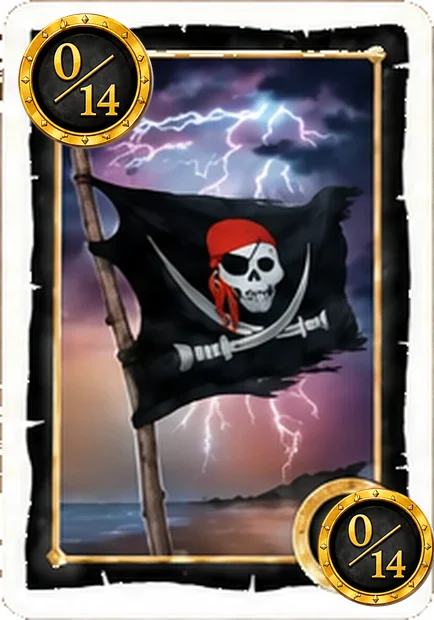
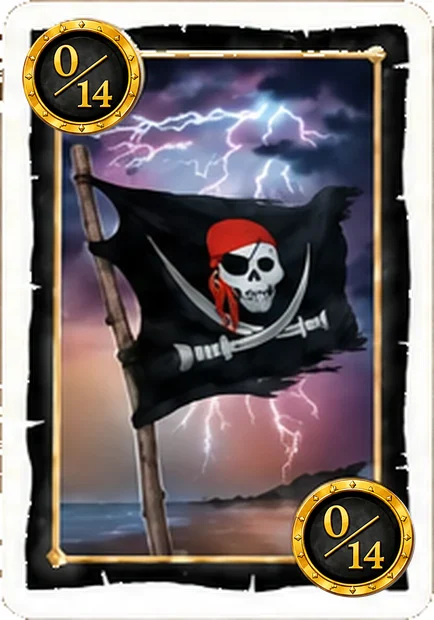
Skull King : recentrer les pastilles des cartes 0/14
Les boîtes des médaillons relevées dans le composeur étaient fausses, et
l'ancien médaillon d'or ressortait à côté de la pastille : 34 px d'écart au
coin bas-droit de la Carte, 28 sur le Trésor, 23 sur le Pavillon, et le
Perroquet décalé aux deux coins.

Les huit boîtes sont relevées à nouveau à la grille. La pastille épouse
désormais la boîte du médaillon au lieu d'être posée en rond sur son plus
grand côté : les médaillons sont peints en perspective, et celui du haut du
Perroquet (121 x 86) faisait déborder un rond de neuf pixels par le haut de
la carte.

Changed region(s): [[0.659, 0.7661, 1.0, 0.9806], [0.03, 0.0, 0.3594, 0.2452]]

diff --git a/briefs/composer-cartes-0-14.py b/briefs/composer-cartes-0-14.py
@@ -19,14 +19,21 @@ différent. Le 5 n'a aucun effet.
 
 Les médaillons sont RELEVÉS sur chaque carte, pas supposés : elles sont
 peintes une par une, et leurs médaillons ne tombent ni au même endroit ni à la
-même taille d'une famille à l'autre — 85 px de large sur le Perroquet, 128 sur
-le Pavillon, soit la moitié en plus.
+même taille ni dans la même forme d'une famille à l'autre — 121 x 86 px au coin
+haut du Perroquet, 125 x 121 sur la Carte, presque un rond.
 
 Ils sont relevés à la main, à la grille. Un repérage automatique a été essayé
 et jeté : le médaillon est un ANNEAU d'or autour d'un chiffre sombre, et une
 fois le liseré du cadre effacé par érosion, l'anneau se brise en arcs. Le plus
 gros arc n'est pas le médaillon — la pastille se posait décalée et trop
 petite, laissant le 5 dépasser sur trois cartes sur quatre.
+
+La pastille épouse la BOÎTE du médaillon, elle n'est pas posée en rond sur son
+plus grand côté. Les médaillons sont peints en perspective, donc elliptiques, et
+un rond assez large pour couvrir le grand axe déborde du petit : au coin haut du
+Perroquet il sortait de neuf pixels par le haut de la carte et se retrouvait
+coupé net. Une pastille étirée à la boîte suit la perspective du dessin, comme
+les médaillons peints qu'elle recouvre.
 
     python3 briefs/composer-cartes-0-14.py
 """
@@ -55,10 +62,10 @@ MARGE = 1.06        # la pastille déborde un peu du médaillon : rien ne doit d
 # Les deux médaillons de chaque carte modèle, en pixels de l'image (434 x 620),
 # relevés à la grille. Coin haut-gauche puis coin bas-droit.
 MEDAILLONS = {
-    'tresor-5':    [(18, 14, 132, 122), (322, 490, 434, 600)],
-    'perroquet-5': [(20, 22, 105, 97), (317, 502, 411, 587)],
-    'carte-5':     [(22, 20, 142, 130), (318, 492, 430, 600)],
-    'pavillon-5':  [(22, 22, 150, 140), (320, 494, 432, 600)],
+    'tresor-5':    [(21, 15, 136, 125), (290, 480, 410, 592)],
+    'perroquet-5': [(16, 12, 137, 98),  (301, 500, 413, 588)],
+    'carte-5':     [(20, 19, 145, 140), (281, 478, 411, 595)],
+    'pavillon-5':  [(25, 22, 139, 132), (294, 482, 412, 594)],
 }
 PAGE = np.array([255.0, 255.0, 255.0])
 
@@ -120,12 +127,13 @@ def main():
         brut.unlink()
 
         for x0, y0, x1, y1 in MEDAILLONS[f'{prefixe}-{MODELE}']:
-            cote = int(round(max(x1 - x0, y1 - y0) * MARGE))
+            larg = int(round((x1 - x0) * MARGE))
+            haut = int(round((y1 - y0) * MARGE))
             cx, cy = (x0 + x1) // 2, (y0 + y1) // 2
-            p = pastille.resize((cote, cote), Image.LANCZOS)
+            p = pastille.resize((larg, haut), Image.LANCZOS)
             # `paste` et pas `alpha_composite` : le médaillon du bas touche le
             # bord de la carte sur trois familles, la pastille déborde donc.
-            carte.paste(p, (cx - cote // 2, cy - cote // 2), p)
+            carte.paste(p, (cx - larg // 2, cy - haut // 2), p)
 
         dest = CARTES / f'{prefixe}-014.webp'
         tmp = dest.with_suffix('.tmp.png')

diff --git a/briefs/habillage-taverne.md b/briefs/habillage-taverne.md
@@ -572,3 +572,27 @@ beaucoup plus pour désigner le voisin. Les poignées, elles, montent : la
 flèche dépasse donc moins qu'avant (0,113 du demi-côté au lieu de 0,235),
 mais les médaillons se posent à 236 px pour une pointe à 207 — ils restent
 au large, rien à régler.
+
+### Correction — 28/08/2026 ✅ les pastilles 0/14 recentrées
+
+Les quatre cartes 0/14 sont fabriquées, pas peintes : `briefs/composer-cartes-0-14.py`
+recouvre les deux médaillons du 5 de chaque famille par la pastille de sa
+couleur. Les boîtes des médaillons, relevées à la grille, étaient fausses —
+d'où un ancien médaillon d'or qui ressortait à côté de la pastille :
+
+| carte | coin | écart du centre relevé |
+|---|---|---|
+| Carte (violet) | bas-droit | 34 px vers la droite, 10 vers le bas |
+| Trésor (jaune) | bas-droit | 28 px vers la droite, 9 vers le bas |
+| Pavillon (noir) | bas-droit | 23 px vers la droite, 9 vers le bas |
+| Perroquet (vert) | haut-gauche | 14 px vers la gauche, et 36 px trop étroite |
+| Perroquet (vert) | bas-droit | 7 px vers la droite |
+
+Les quatre boîtes du bas étaient toutes décalées du même côté — elles avaient
+été lues sur le coin de la carte, pas sur le médaillon.
+
+Deuxième correction, de méthode : la pastille épouse désormais la **boîte** du
+médaillon au lieu d'être posée en rond sur son plus grand côté. Les médaillons
+sont peints en perspective, donc elliptiques, et le Perroquet est le cas
+extrême — 121 x 86 px au coin haut. Un rond de 121 de diamètre le couvre, mais
+sortait de neuf pixels par le haut de la carte et se retrouvait coupé net.
